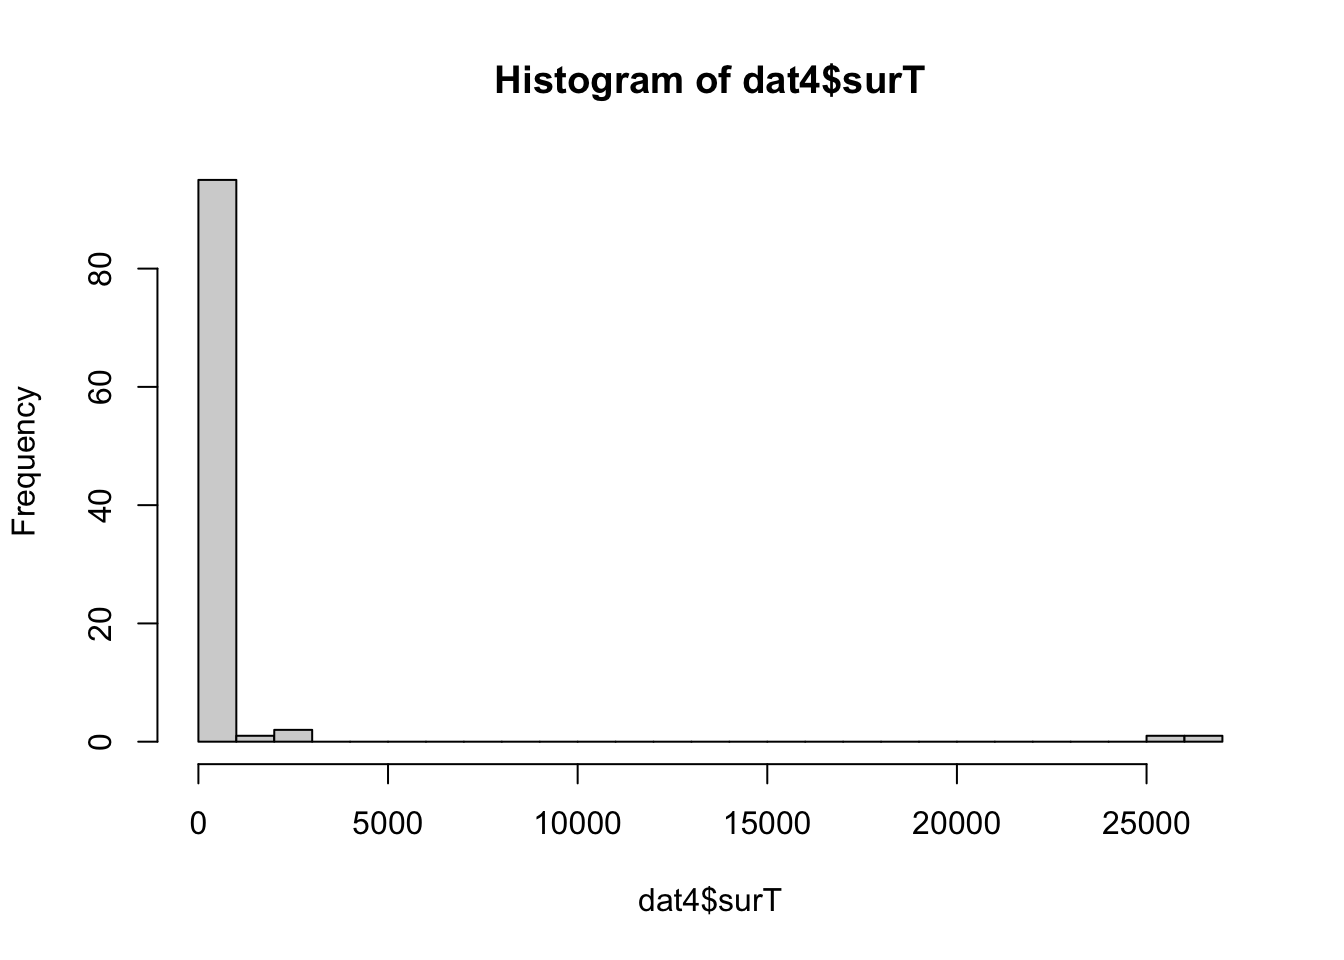
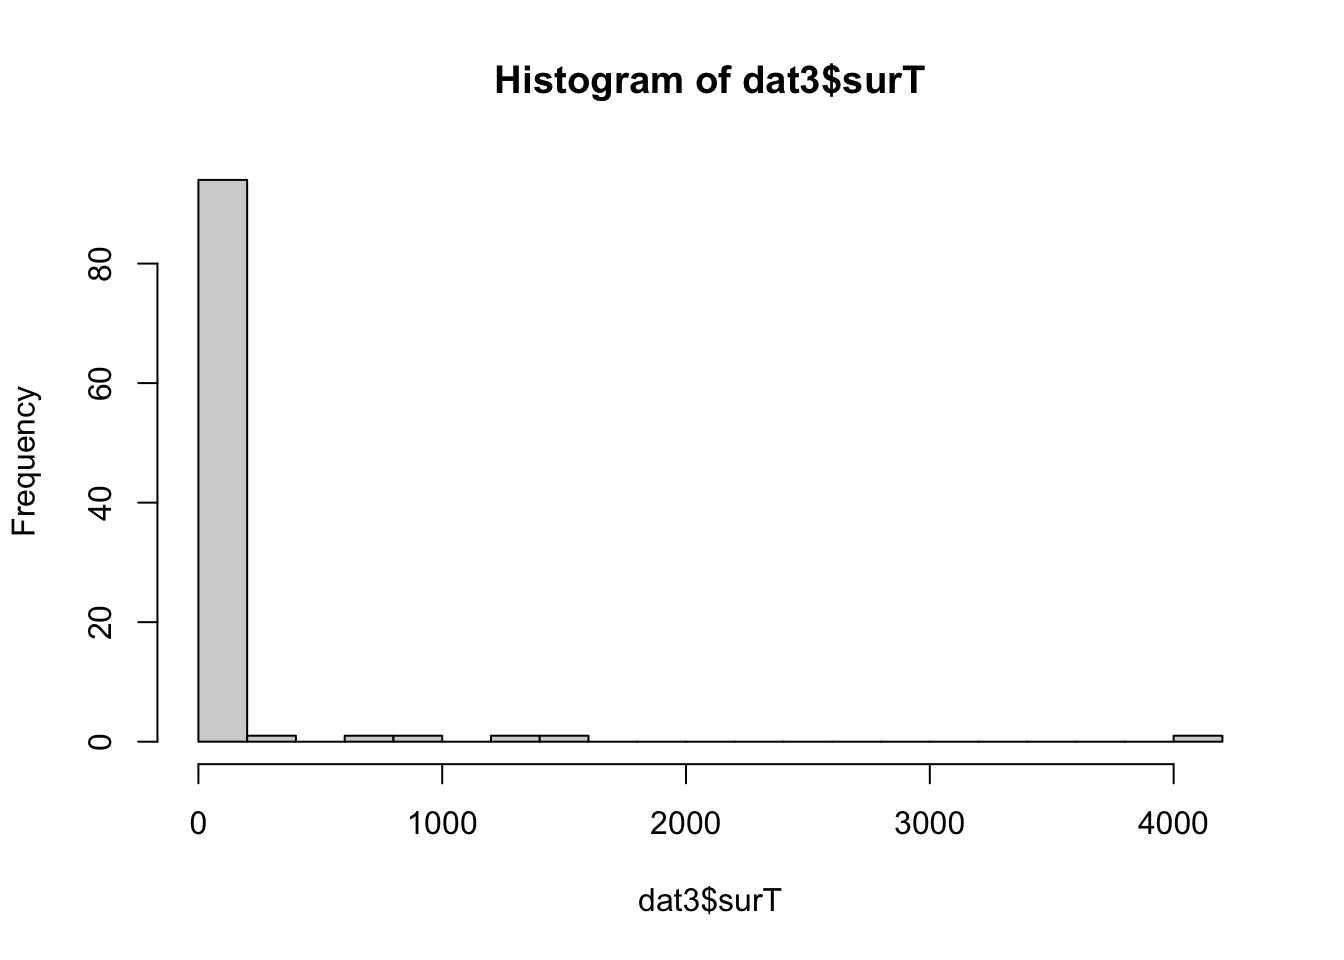
Build site.

diff --git a/docs/sim_survival.html b/docs/sim_survival.html
@@ -384,7 +384,7 @@ div.tocify {
 <div class="tab-content">
 <div id="summary" class="tab-pane fade in active">
 <p>
-<strong>Last updated:</strong> 2023-02-12
+<strong>Last updated:</strong> 2023-02-23
 </p>
 <p>
 <strong>Checks:</strong> <span class="glyphicon glyphicon-ok text-success" aria-hidden="true"></span> 7 <span class="glyphicon glyphicon-exclamation-sign text-danger" aria-hidden="true"></span> 0
@@ -475,16 +475,16 @@ This reproducible <a href="http://rmarkdown.rstudio.com">R Markdown</a> analysis
 <div class="panel panel-default">
 <div class="panel-heading">
 <p class="panel-title">
-<a data-toggle="collapse" data-parent="#workflowr-checks" href="#strongRepositoryversionstrongahrefhttpsgithubcomyunqiyang0215survivalsusietree13721b56e1f4d6880839ce674aedc13a9604a6c0targetblank13721b5a"> <span class="glyphicon glyphicon-ok text-success" aria-hidden="true"></span> <strong>Repository version:</strong> <a href="https://github.com/yunqiyang0215/survival-susie/tree/13721b56e1f4d6880839ce674aedc13a9604a6c0" target="_blank">13721b5</a> </a>
+<a data-toggle="collapse" data-parent="#workflowr-checks" href="#strongRepositoryversionstrongahrefhttpsgithubcomyunqiyang0215survivalsusietreea0a62a1e79f382471623772ee1591a3620bc76a1targetblanka0a62a1a"> <span class="glyphicon glyphicon-ok text-success" aria-hidden="true"></span> <strong>Repository version:</strong> <a href="https://github.com/yunqiyang0215/survival-susie/tree/a0a62a1e79f382471623772ee1591a3620bc76a1" target="_blank">a0a62a1</a> </a>
 </p>
 </div>
[2 lines of base64/hex data omitted]
 <div class="panel-body">
 <p>
 Great! You are using Git for version control. Tracking code development and connecting the code version to the results is critical for reproducibility.
 </p>
 <p>
-The results in this page were generated with repository version <a href="https://github.com/yunqiyang0215/survival-susie/tree/13721b56e1f4d6880839ce674aedc13a9604a6c0" target="_blank">13721b5</a>. See the <em>Past versions</em> tab to see a history of the changes made to the R Markdown and HTML files.
+The results in this page were generated with repository version <a href="https://github.com/yunqiyang0215/survival-susie/tree/a0a62a1e79f382471623772ee1591a3620bc76a1" target="_blank">a0a62a1</a>. See the <em>Past versions</em> tab to see a history of the changes made to the R Markdown and HTML files.
 </p>
 <p>
 Note that you need to be careful to ensure that all relevant files for the analysis have been committed to Git prior to generating the results (you can use <code>wflow_publish</code> or <code>wflow_git_commit</code>). workflowr only checks the R Markdown file, but you know if there are other scripts or data files that it depends on. Below is the status of the Git repository when the results were generated:
@@ -497,9 +497,16 @@ Ignored files:
     Ignored:    analysis/.DS_Store
     Ignored:    analysis/.RData
     Ignored:    analysis/.Rhistory
+    Ignored:    analysis/run_ser_simple_dat_cache/
+
+Untracked files:
+    Untracked:  analysis/ibss_null_model.Rmd
 
 Unstaged changes:
-    Modified:   data/sim_dat_simple.rds
+    Modified:   analysis/check_coxph_fit.Rmd
+    Deleted:    analysis/null_model_demo.Rmd
+    Modified:   analysis/null_model_zscore.Rmd
+    Deleted:    analysis/one_predictor_investigation.Rmd
 
 </code></pre>
 <p>
@@ -538,6 +545,40 @@ Message
 </tr>
 </thead>
 <tbody>
+<tr>
+<td>
+Rmd
+</td>
+<td>
+<a href="https://github.com/yunqiyang0215/survival-susie/blob/a0a62a1e79f382471623772ee1591a3620bc76a1/analysis/sim_survival.Rmd" target="_blank">a0a62a1</a>
+</td>
+<td>
+yunqiyang0215
+</td>
+<td>
+2023-02-23
+</td>
+<td>
+wflow_publish("analysis/sim_survival.Rmd")
+</td>
+</tr>
+<tr>
+<td>
+html
+</td>
+<td>
+<a href="https://rawcdn.githack.com/yunqiyang0215/survival-susie/864bb5287a5d8e115ee6ff7a10fedbc56b7121d6/docs/sim_survival.html" target="_blank">864bb52</a>
+</td>
+<td>
+yunqiyang0215
+</td>
+<td>
+2023-02-12
+</td>
+<td>
+Build site.
+</td>
+</tr>
 <tr>
 <td>
 Rmd
@@ -757,13 +798,14 @@ sim_dat &lt;- function(b, X){
   dat$status &lt;- rep(2, n)
   return(dat)
 }</code></pre>
-<div id="scenario-1-null-model" class="section level4">
-<h4>Scenario 1: null model</h4>
+</div>
+<div id="scenario-1-null-model-x-no-correlation" class="section level3">
+<h3>Scenario 1: null model, X no correlation</h3>
 <pre class="r"><code>set.seed(1)
 n &lt;- 100
 p &lt;- 50
 b &lt;- c(1, rep(0, 50))
-sigma &lt;- cov_simple_het(p, corr = 0.9)
+sigma &lt;- cov_simple_het(p, corr = 0)
 X&lt;- rmvnorm(n, sigma = sigma)
 dat1 &lt;- sim_dat(b, X)</code></pre>
 <pre class="r"><code>hist(dat1$surT, breaks = 20)</code></pre>
@@ -839,13 +881,13 @@ yunqiyang0215
 </div>
 </div>
 </div>
-<div id="scenario-2-single-effect-model-with-independent-predictors" class="section level4">
-<h4>Scenario 2: single effect model with independent predictors</h4>
+<div id="scenario-2-null-model-x-correlation-0.9" class="section level3">
+<h3>Scenario 2: null model, X correlation = 0.9</h3>
 <pre class="r"><code>set.seed(1)
 n &lt;- 100
 p &lt;- 50
-b &lt;- c(1, 3, rep(0, p-1))
-sigma &lt;- cov_simple_het(p, corr = 0)
+b &lt;- c(1, rep(0, 50))
+sigma &lt;- cov_simple_het(p, corr = 0.9)
 X&lt;- rmvnorm(n, sigma = sigma)
 dat2 &lt;- sim_dat(b, X)</code></pre>
 <pre class="r"><code>hist(dat2$surT, breaks = 20)</code></pre>
@@ -899,16 +941,16 @@ yunqiyang0215
 </div>
 </div>
 </div>
-<div id="scenario-3-single-effect-model-with-highly-correlated-predictors" class="section level4">
-<h4>Scenario 3: single effect model with highly correlated predictors</h4>
+<div id="scenario-3-single-effect-model-with-independent-predictors" class="section level3">
+<h3>Scenario 3: single effect model with independent predictors</h3>
 <pre class="r"><code>set.seed(1)
 n &lt;- 100
 p &lt;- 50
 b &lt;- c(1, 3, rep(0, p-1))
-sigma &lt;- cov_simple_het(p, corr = 0.9)
+sigma &lt;- cov_simple_het(p, corr = 0)
 X&lt;- rmvnorm(n, sigma = sigma)
 dat3 &lt;- sim_dat(b, X)</code></pre>
-<pre class="r"><code>hist(dat3$surT, breaks = 20)</code></pre>
+<pre class="r"><code>hist(dat2$surT, breaks = 20)</code></pre>
 <p><img src="figure/sim_survival.Rmd/unnamed-chunk-8-1.png" width="672" style="display: block; margin: auto;" /></p>
 <p>
 <button type="button" class="btn btn-default btn-xs btn-workflowr btn-workflowr-fig" data-toggle="collapse" data-target="#fig-unnamed-chunk-8-1">
@@ -959,16 +1001,16 @@ yunqiyang0215
 </div>
 </div>
 </div>
-<div id="scenario-4-two-effects-model-with-highly-correlated-variables" class="section level4">
-<h4>Scenario 4: two effects model with highly correlated variables</h4>
+<div id="scenario-4-single-effect-model-with-highly-correlated-predictors" class="section level3">
+<h3>Scenario 4: single effect model with highly correlated predictors</h3>
 <pre class="r"><code>set.seed(1)
 n &lt;- 100
 p &lt;- 50
-b &lt;- c(1, 3, 1.5, rep(0, p-2))
+b &lt;- c(1, 3, rep(0, p-1))
 sigma &lt;- cov_simple_het(p, corr = 0.9)
 X&lt;- rmvnorm(n, sigma = sigma)
 dat4 &lt;- sim_dat(b, X)</code></pre>
-<pre class="r"><code>hist(dat4$surT, breaks = 20)</code></pre>
+<pre class="r"><code>hist(dat3$surT, breaks = 20)</code></pre>
 <p><img src="figure/sim_survival.Rmd/unnamed-chunk-10-1.png" width="672" style="display: block; margin: auto;" /></p>
 <p>
 <button type="button" class="btn btn-default btn-xs btn-workflowr btn-workflowr-fig" data-toggle="collapse" data-target="#fig-unnamed-chunk-10-1">
@@ -1018,7 +1060,19 @@ yunqiyang0215
 </table>
 </div>
 </div>
-<pre class="r"><code>sim_dat_simple &lt;- list(dat1, dat2, dat3, dat4)
+</div>
+<div id="scenario-5-two-effects-model-with-highly-correlated-variables" class="section level3">
+<h3>Scenario 5: two effects model with highly correlated variables</h3>
+<pre class="r"><code>set.seed(1)
+n &lt;- 100
+p &lt;- 50
+b &lt;- c(1, 3, 1.5, rep(0, p-2))
+sigma &lt;- cov_simple_het(p, corr = 0.9)
+X&lt;- rmvnorm(n, sigma = sigma)
+dat5 &lt;- sim_dat(b, X)</code></pre>
+<pre class="r"><code>hist(dat5$surT, breaks = 20)</code></pre>
+<p><img src="figure/sim_survival.Rmd/unnamed-chunk-12-1.png" width="672" style="display: block; margin: auto;" /></p>
+<pre class="r"><code>sim_dat_simple &lt;- list(dat1, dat2, dat3, dat4, dat5)
 saveRDS(sim_dat_simple, &quot;./data/sim_dat_simple.rds&quot;)</code></pre>
 <br>
 <p>
@@ -1058,7 +1112,6 @@ loaded via a namespace (and not attached):
 [37] splines_4.1.1    promises_1.2.0.1 ellipsis_0.3.2   htmltools_0.5.2 
 [41] httpuv_1.6.3     utf8_1.2.2       stringi_1.7.5    cachem_1.0.6    
 [45] crayon_1.4.1    </code></pre>
-</div>
 </div>
 </div>
 </div>
